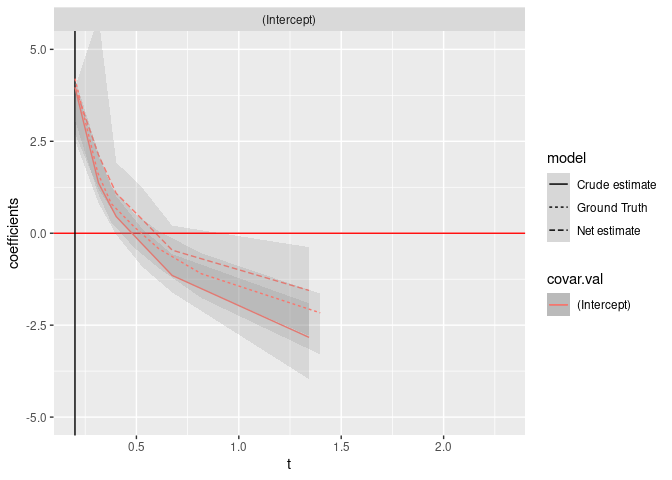
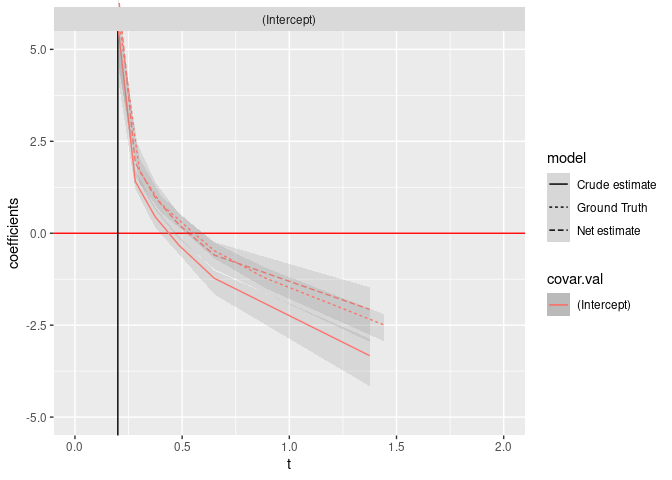
update README: fix plot clipping, inc. sample size

diff --git a/README.md b/README.md
@@ -56,7 +56,7 @@ library(tidyverse)
 #> ✖ dplyr::lag()    masks stats::lag()
 #> ℹ Use the conflicted package (<http://conflicted.r-lib.org/>) to force all conflicts to become errors
 
-n_ind <- 1e2 # number of simulated individuals
+n_ind <- 5e2 # number of simulated individuals
 
 # Generate exponentially distributed event times without censoring
 synth_idm_data <- generate_uncensored_ind_exp_idm_data(
@@ -127,17 +127,17 @@ We obtain a `TPreg` object with a dedicated plotting method using
 ggplot:
 
 ``` r
-plot(net_estimate) + ggplot2::coord_cartesian(ylim = c(-5, 5))
+plot(net_estimate) + ggplot2::coord_cartesian(ylim = c(-5, 5), clip = "off")
 #> Warning: Removed 1 row containing missing values or values outside the scale range
 #> (`geom_line()`).
 ```
 
 <img src="man/figures/README-plot-1.png" width="100%" />
 
-*Warning: note the use of `ggplot2::coord_cartesian` instead of
-`ggplot2::ylim`. The former acts as a “zoom” command, while the latter
-acts as a filter on input data, and as such might prevent display of
-large confidence intervals.*
+*Warning: note the use of `ggplot2::coord_cartesian` with `clip="off"`
+instead of `ggplot2::ylim`. The former acts as a “zoom” command, while
+the latter acts as a filter on input data, and as such might prevent
+display of large confidence intervals.*
 
 The obtained TPreg plots are composable ggplot objects that can be
 combined. Let’s use this to compare our results with: 1) what would have
@@ -186,7 +186,7 @@ automatically set the linetype accordingly.
 autoplot(net_estimate, model = "Net estimate") +
   autolayer(crude_estimate, model = "Crude estimate") +
   autolayer(truth_estimate, model = "Ground Truth") +
-  ggplot2::coord_cartesian(ylim = c(-5, 5))
+  ggplot2::coord_cartesian(ylim = c(-5, 5), xlim = c(0, 2), clip = "off")
 #> Warning: Removed 1 row containing missing values or values outside the scale range
 #> (`geom_line()`).
 #> Removed 1 row containing missing values or values outside the scale range
